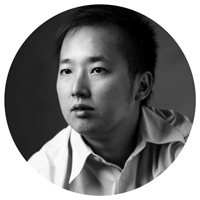
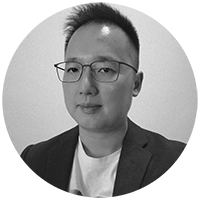
fix type and update jason's photo

diff --git a/themes/aditus/layouts/index.html b/themes/aditus/layouts/index.html
@@ -199,7 +199,7 @@
             <span class='deshide'>
             before it was acquired by media giant Singapore Press Holdings. Over the past 15 years he has launched and built numerous luxury marketing platforms including websites, apps and rewards programs focused on luxury.
             <br/><br/>
-            He is highly experienced in experienced in digital product development and roll-out, and has been at the forefront
+            He is highly experienced in digital product development and roll-out, and has been at the forefront
             of rolling out tech solutions for luxury clients from online advertising, mobile marketing to data systems. His track
             record includes signing up hundreds of luxury brands often for their very first forays into that technology.
             <br/><br/>
@@ -290,7 +290,8 @@
         <div class="team-people">
           <img src="/dist/images/team-ahmed-zulkamal.png" alt='Ahmed Zulkamal'>
           <h5>Zulkamal Ahmed</h5>
-          <h6>Platform Manager / UX Developer</h6><a href="https://linkedin.com/in/zulkamal" class="linkedin" target="_blank"></a>
+          <h6>Platform Manager / UX Developer</h6>
+          <a href="https://www.linkedin.com/in/zulkamal" class="linkedin" target="_blank"></a>
           <p>
             Zulkamal is a multi-disciplined product manager with more than 10 years of full-stack application development
             and management experience
@@ -310,7 +311,8 @@
         <div class="team-people">
           <img src="/dist/images/team-jason-kwong.png" alt="Jason Kwong">
           <h5>Jason Kwong</h5>
-          <h6>Communications Manager</h6></a>
+          <h6>Communications Manager</h6>
+          <a href="https://www.linkedin.com/in/jason-kwong-424831152/" class="linkedin" target="_blank"></a>
           <p>
             Jason spent seven years in the financial sector with experience in credit card marketing and equity trading before
             entering into luxury media,
